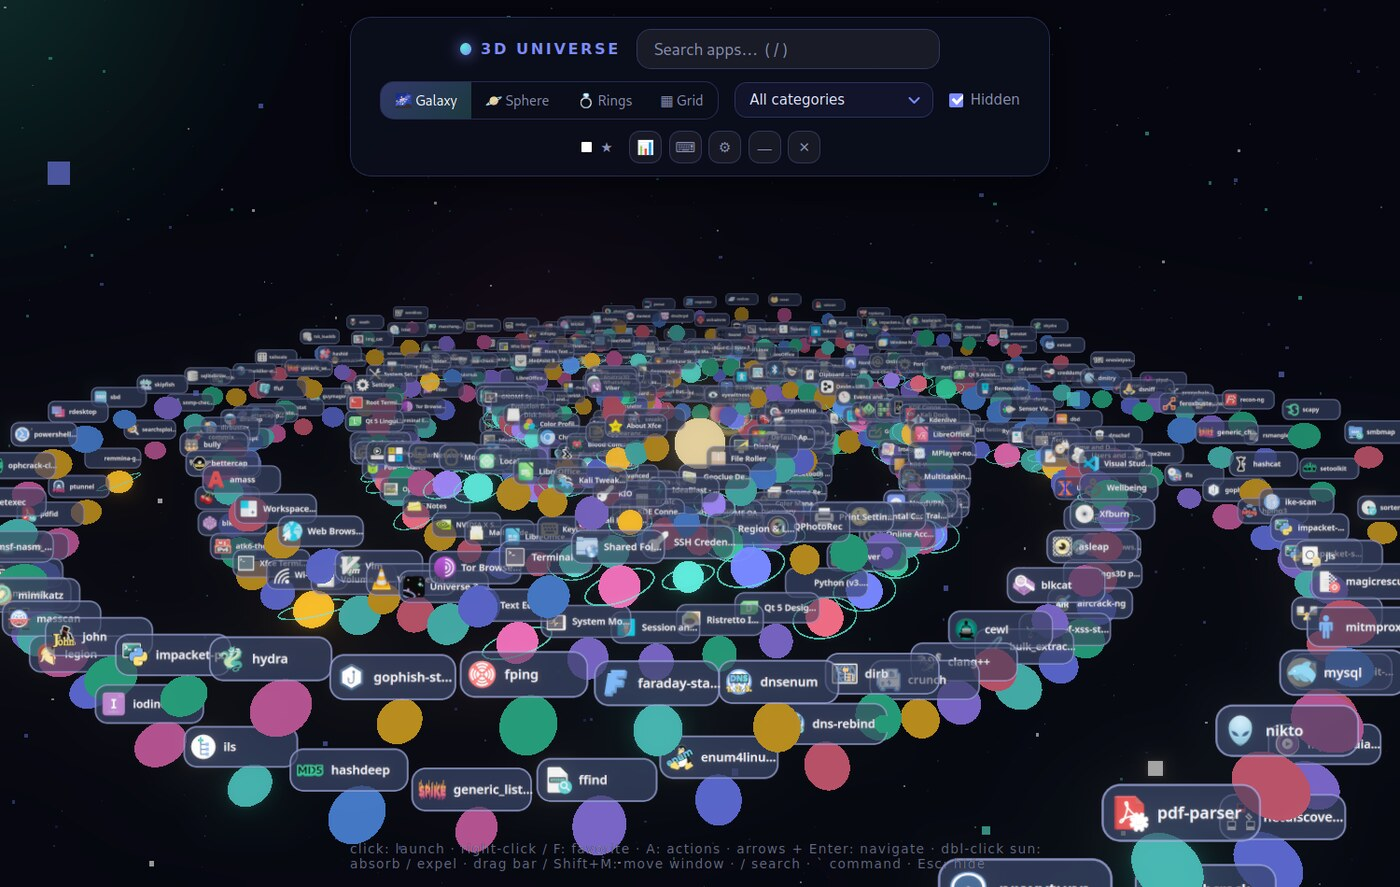
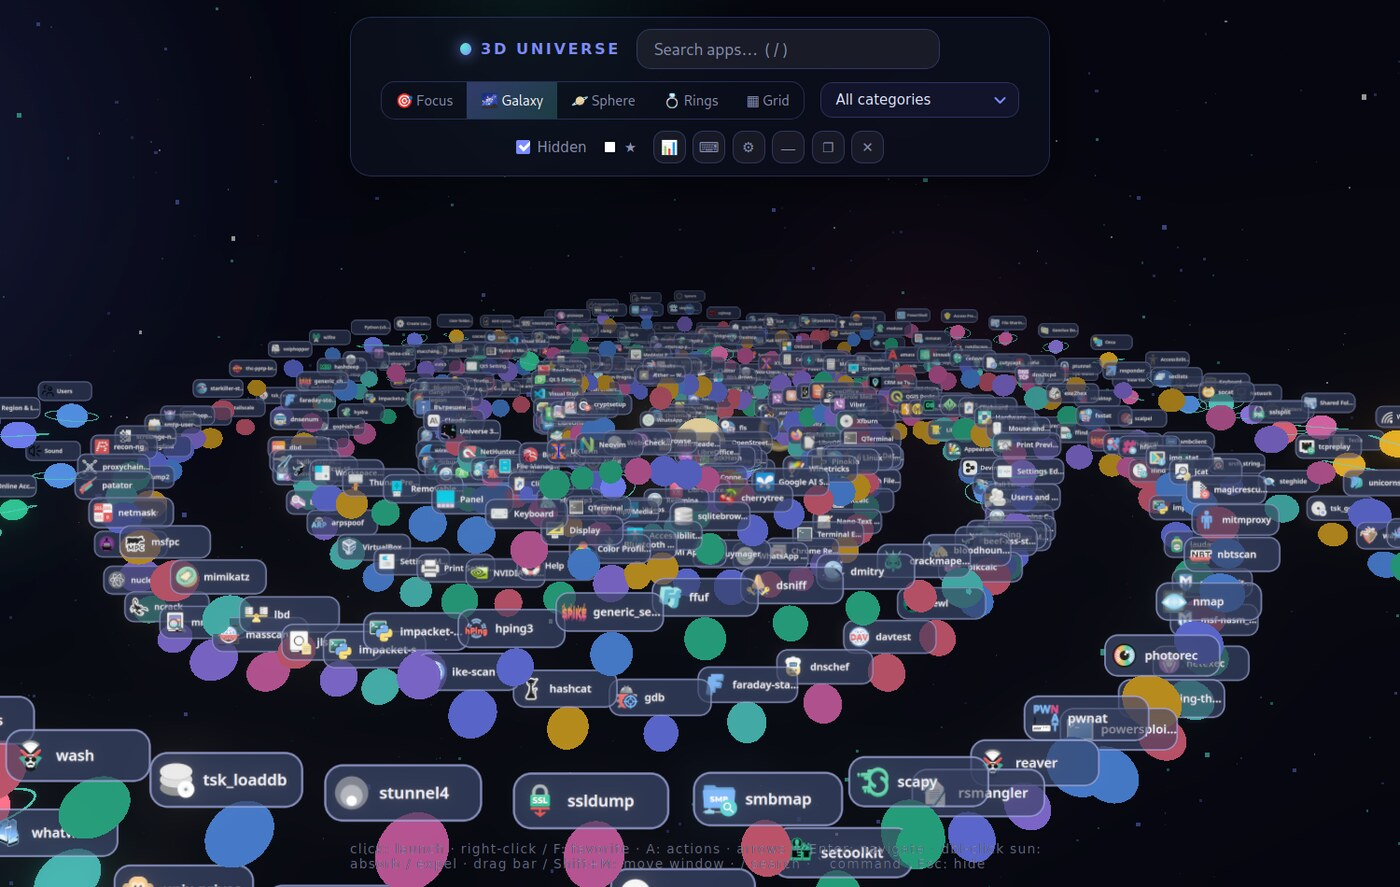
docs: show the Galaxy/Focus contrast in the README
The hero image was the galaxy view, which is the layout the project argues is
unreadable at scale -- a poor advertisement for the idea it leads with. Focus
is now the hero, and the two screenshots sit side by side in the Focus section
so the difference is visible rather than merely described: the same machine and
the same few hundred applications, once with overlapping labels and once as a
readable grid.

Claude-Session: https://claude.ai/code/session_01LA22kYkKm7u2WMLbjMq7iU

diff --git a/README.md b/README.md
@@ -13,7 +13,7 @@ you can search, sort and fly through.
 [![Built with Tauri](https://img.shields.io/badge/built%20with-Tauri%202-24C8DB)](https://tauri.app)
 [![Platform: Linux](https://img.shields.io/badge/platform-Linux-333)](#requirements)
 
-![Universe 3D](docs/images/galaxy.jpg)
+![Universe 3D](docs/images/focus.jpg)
 
 </div>
 
@@ -70,6 +70,21 @@ flat list cannot show without hiding things behind a scrollbar.
 Ranking blends launch frequency with recency. On a fresh install, with no usage
 history yet, it falls back to signals from the desktop entries themselves so
 the front grid is useful from the first run.
+
+The difference is easier to see than to describe. The same machine, the same
+few hundred applications, in Galaxy and in Focus:
+
+<div align="center">
+
+![Galaxy layout](docs/images/galaxy.jpg)
+
+*Galaxy — spectacular, and unreadable once the labels overlap.*
+
+![Focus layout](docs/images/focus.jpg)
+
+*Focus — the same apps, legible up front, everything else receding.*
+
+</div>
 
 ## Screenshots
 
